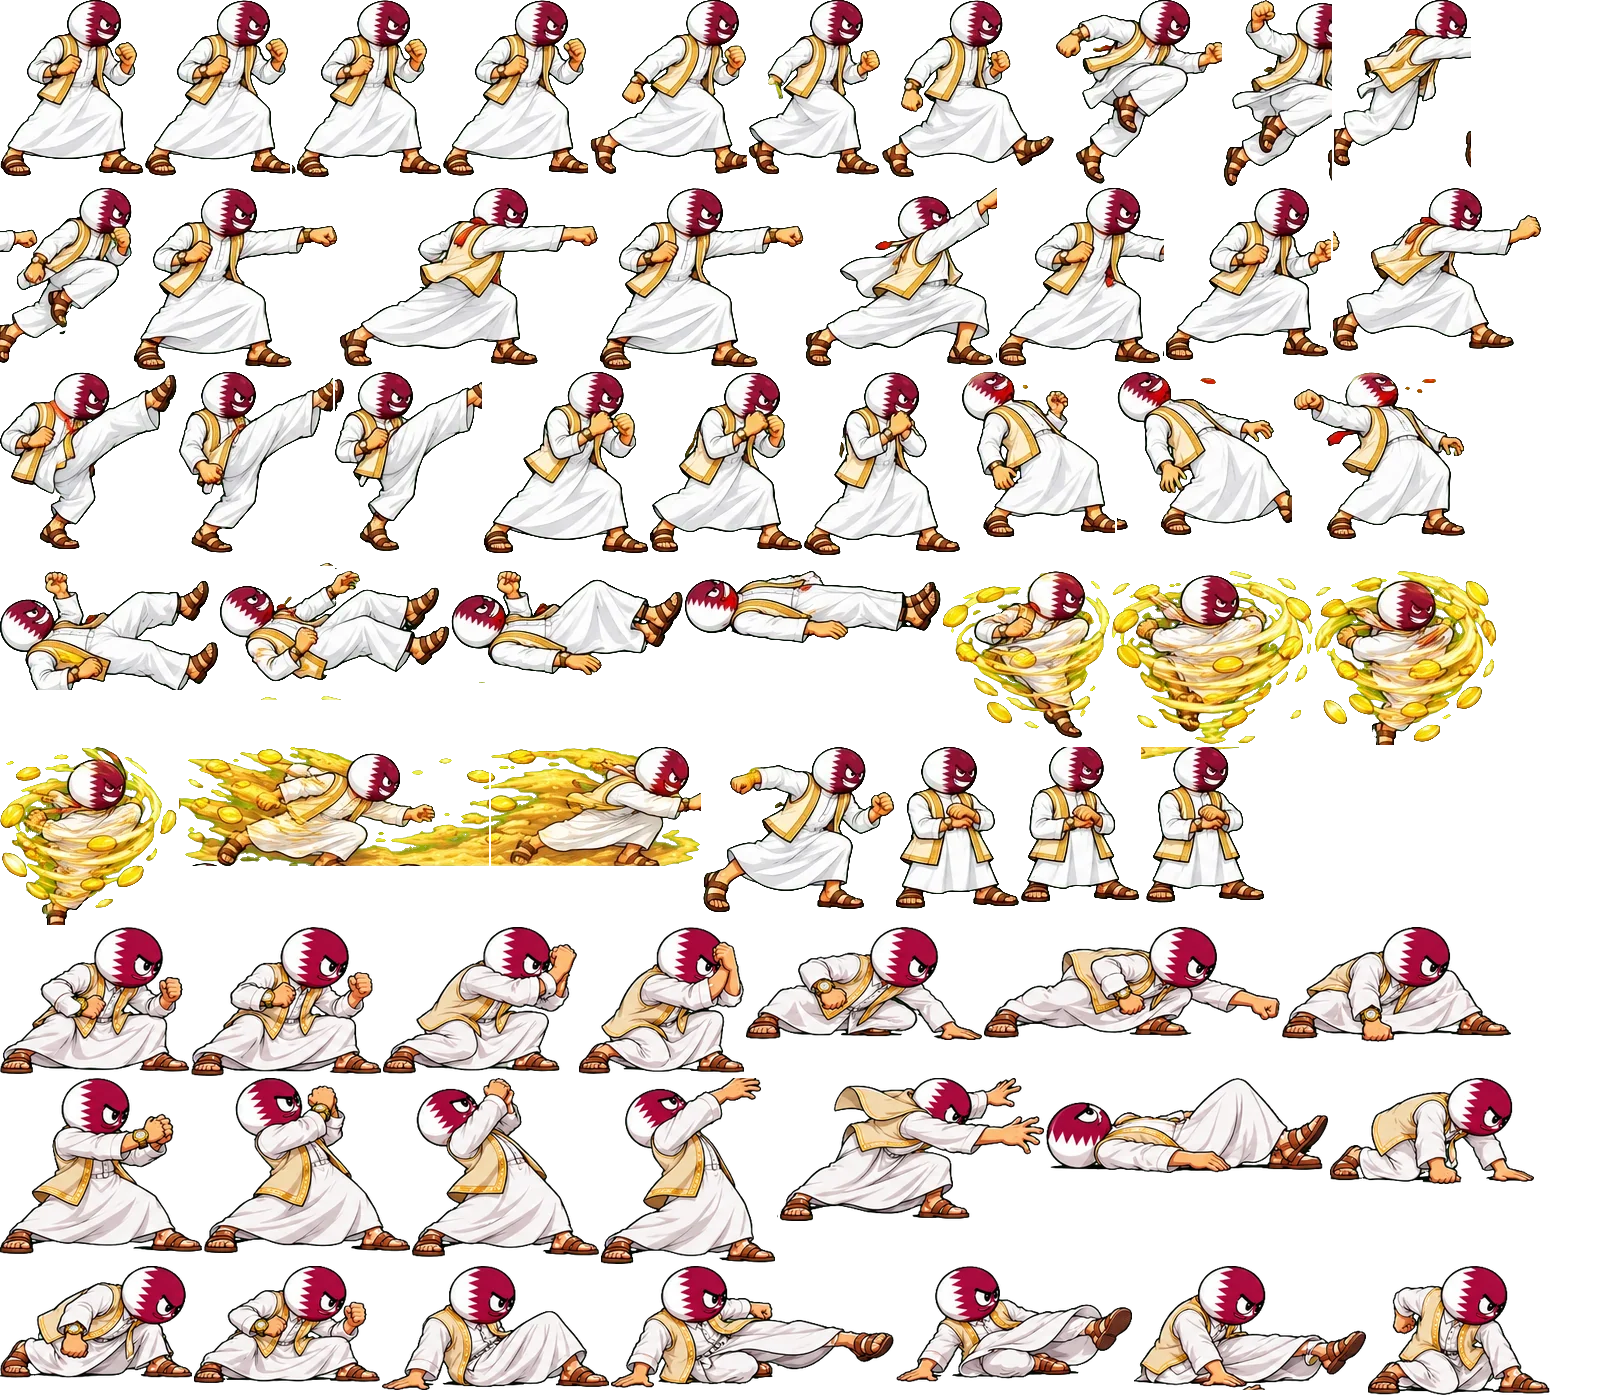
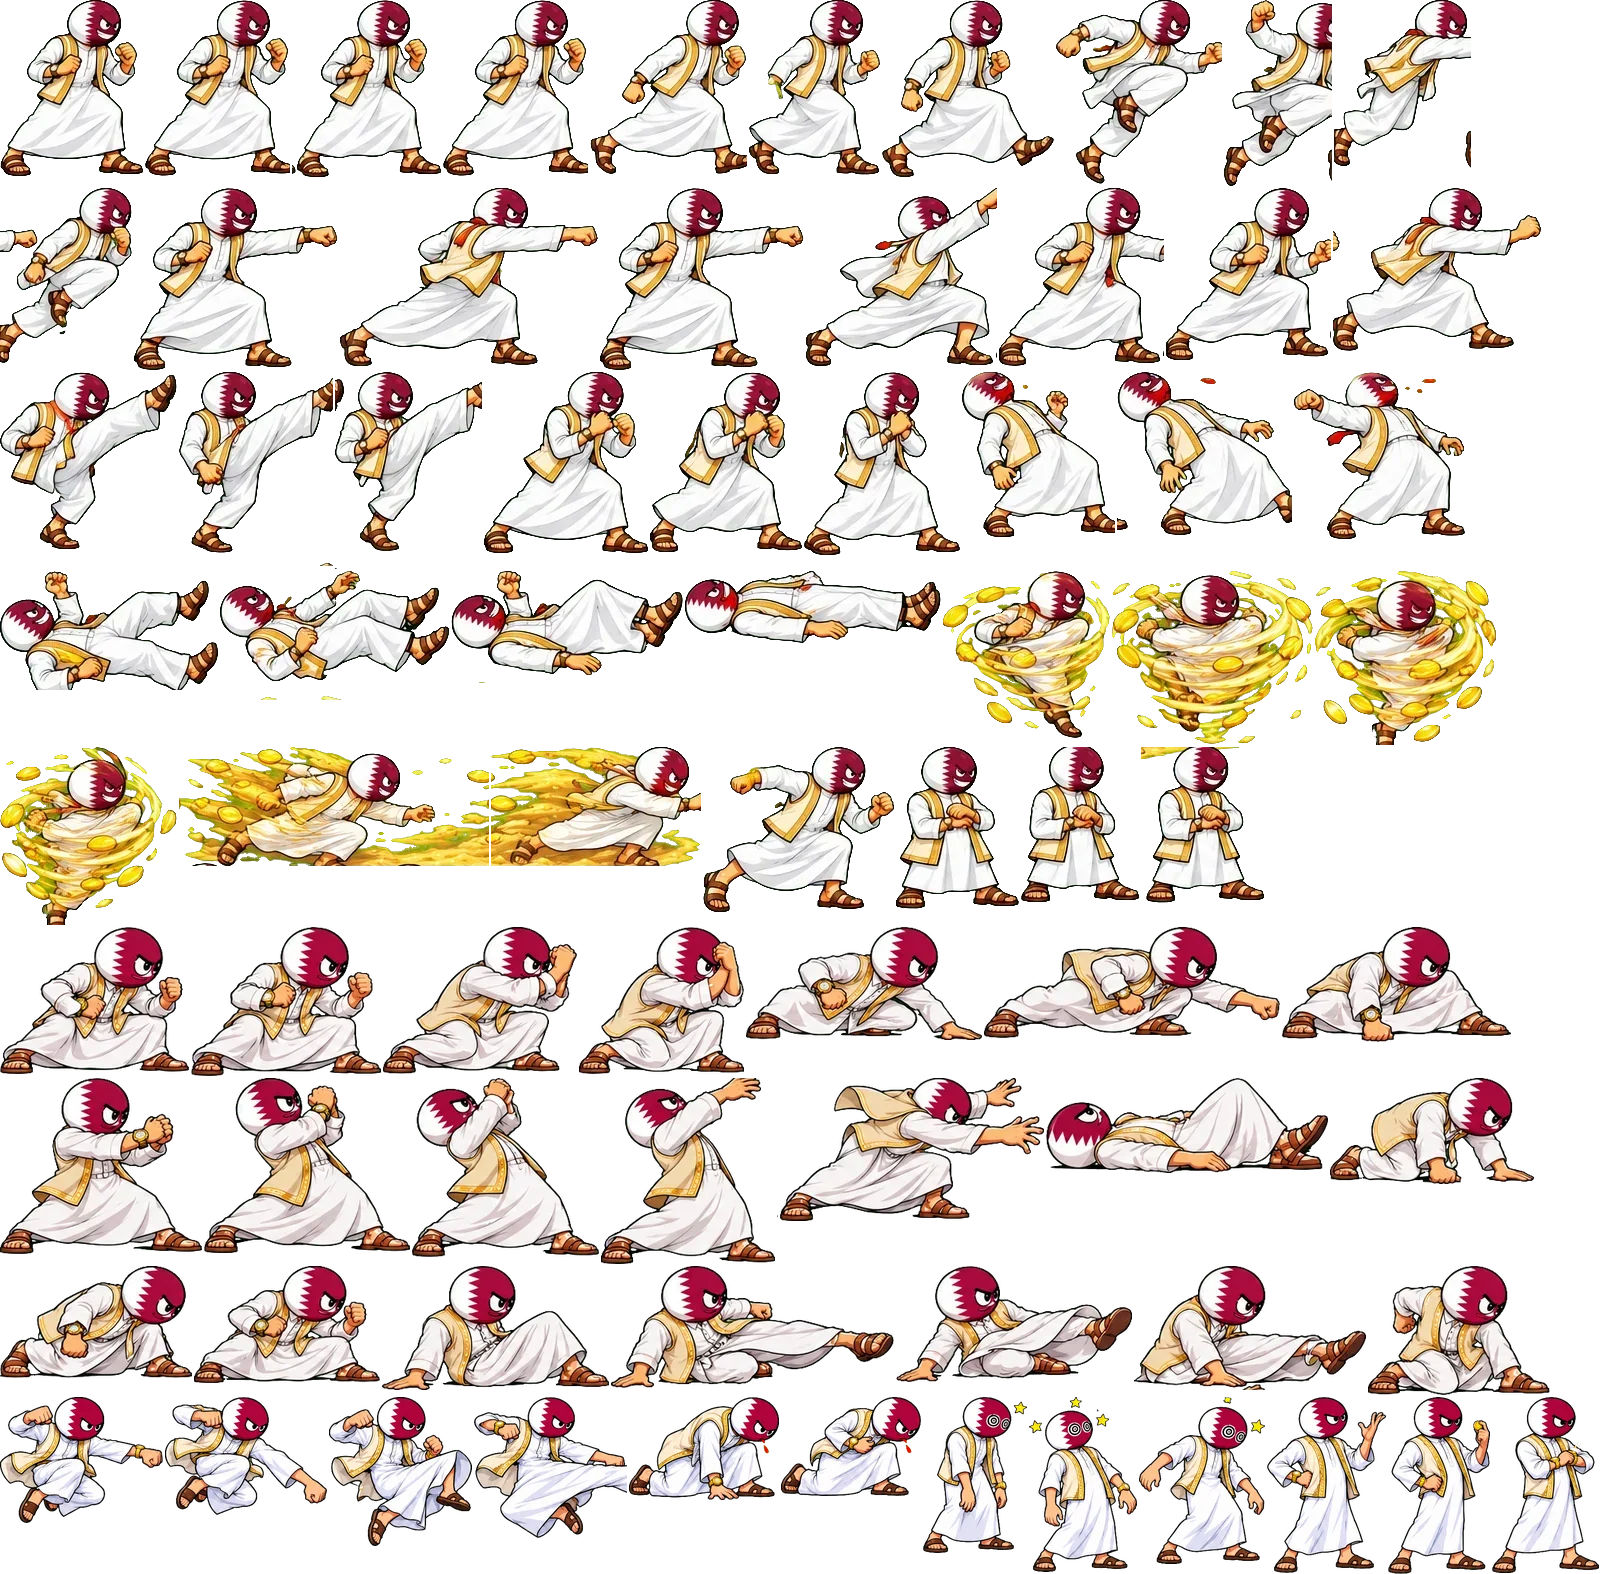
Presidents Brawl: Mister Qatar jump attacks, crouch hit, dizzy and entrance frames
Claude-Session: https://claude.ai/code/session_01HtMgEDxgy3YeKCDKp7REeJ

diff --git a/brawl/index.html b/brawl/index.html
@@ -588,7 +588,7 @@ addSprite('rus',{"idle": [[0, 0, 139, 152, 60.3], [141, 0, 134, 152, 59.1], [277
 addSprite('tur',{"idle": [[0, 0, 139, 173, 66.9], [141, 0, 140, 174, 68.7], [283, 0, 139, 176, 67.0], [424, 0, 139, 173, 66.9]], "walk": [[565, 0, 163, 176, 87.3], [730, 0, 137, 177, 68.9], [869, 0, 172, 176, 70.7]], "jump": [[1043, 0, 125, 188, 66.2], [1170, 0, 169, 180, 75.5], [1341, 0, 125, 188, 66.2], [1468, 0, 125, 188, 66.2]], "jab": [[0, 190, 201, 174, 80.2], [203, 190, 263, 173, 97.6], [468, 190, 201, 174, 80.2]], "kick": [[671, 190, 158, 187, 78.6], [831, 190, 143, 180, 34.7], [976, 190, 177, 177, 56.1], [1155, 190, 158, 187, 78.6]], "block": [[1315, 190, 154, 177, 74.0], [0, 379, 149, 183, 69.4]], "hit": [[151, 379, 152, 192, 82.2], [305, 379, 191, 192, 110.1], [498, 379, 156, 174, 74.1]], "ko": [[656, 379, 220, 129, 92.4], [878, 379, 239, 108, 100.3], [1119, 379, 230, 98, 102.4], [0, 573, 258, 58, 117.5]], "super": [[260, 573, 192, 215, 13.6], [454, 573, 215, 207, 117.9], [671, 573, 160, 220, 29.6], [833, 573, 192, 224, 91.6], [1027, 573, 211, 216, 92.8], [1240, 573, 172, 200, 78.8]], "win": [[1414, 573, 104, 210, 48.7], [0, 799, 111, 219, 57.1], [113, 799, 120, 225, 63.1]], "crouch": [[0, 1026, 200, 153, 96.0], [202, 1026, 188, 152, 93.2]], "cblock": [[392, 1026, 187, 151, 80.6], [581, 1026, 166, 153, 74.7]], "lowp": [[749, 1026, 245, 117, 156.5], [996, 1026, 243, 113, 119.6], [1241, 1026, 213, 121, 111.4]], "grab": [[0, 1181, 218, 174, 121.9], [220, 1181, 198, 175, 73.7], [420, 1181, 179, 182, 55.6], [601, 1181, 177, 188, 71.7], [780, 1181, 274, 150, 151.4]], "getup": [[1056, 1181, 279, 88, 137.8], [1337, 1181, 197, 102, 101.2], [0, 1371, 198, 105, 105.6], [200, 1371, 179, 115, 102.8]], "sweep": [[381, 1371, 226, 122, 93.9], [609, 1371, 263, 117, 71.5], [874, 1371, 223, 118, 64.8], [1099, 1371, 233, 119, 85.8], [1334, 1371, 173, 128, 80.4]], "heavy": [[0, 1501, 146, 145, 64.6], [148, 1501, 133, 141, 25.2], [283, 1501, 210, 125, 60.9], [495, 1501, 170, 106, 67.3]], "airp": [[667, 1501, 141, 104, 59.5], [810, 1501, 134, 93, 60.7]], "airk": [[946, 1501, 142, 126, 68.3], [1090, 1501, 188, 118, 69.2]], "chit": [[1280, 1501, 143, 94, 63.2], [1425, 1501, 123, 91, 50.8]], "dizzy": [[0, 1648, 86, 178, 36.9], [88, 1648, 102, 180, 48.0], [192, 1648, 129, 168, 72.7]], "intro": [[323, 1648, 104, 175, 50.5], [429, 1648, 104, 177, 49.0], [535, 1648, 150, 174, 73.0]]},'img/tur.webp',0.94);
 addSprite('ukr',{"idle": [[0, 0, 149, 218, 71.3], [151, 0, 147, 218, 69.4], [300, 0, 151, 213, 71.6], [453, 0, 143, 218, 65.8]], "walk": [[598, 0, 160, 233, 76.9], [760, 0, 164, 233, 80.2], [926, 0, 169, 232, 83.2], [1097, 0, 168, 233, 81.0]], "jump": [[1267, 0, 150, 170, 79.9], [1419, 0, 172, 215, 86.2], [0, 235, 130, 196, 54.5], [132, 235, 148, 183, 65.7]], "jab": [[282, 235, 169, 220, 82.6], [453, 235, 224, 221, 88.1], [679, 235, 165, 221, 80.0]], "heavy": [[846, 235, 192, 218, 95.6], [1040, 235, 233, 221, 92.3], [1275, 235, 249, 221, 97.6], [0, 458, 180, 214, 88.0]], "kick": [[182, 458, 125, 213, 50.0], [309, 458, 231, 202, 66.9], [542, 458, 239, 202, 76.3], [783, 458, 144, 204, 59.7]], "block": [[929, 458, 181, 234, 83.0], [1112, 458, 173, 235, 80.9]], "hit": [[1287, 458, 222, 213, 110.2], [0, 695, 201, 212, 95.1], [203, 695, 206, 214, 109.3]], "ko": [[411, 695, 226, 179, 98.6], [639, 695, 296, 164, 138.8], [937, 695, 304, 110, 145.5], [1243, 695, 269, 87, 123.3]], "super": [[0, 911, 210, 241, 50.2], [212, 911, 301, 289, 152.1], [515, 911, 262, 261, 73.5], [779, 911, 270, 256, 142.3], [1051, 911, 202, 255, 65.4], [1255, 911, 235, 199, 109.6]], "win": [[0, 1202, 178, 267, 86.3], [180, 1202, 171, 235, 84.3], [353, 1202, 142, 239, 67.9]], "crouch": [[0, 1471, 226, 200, 113.9], [228, 1471, 226, 200, 112.5]], "cblock": [[456, 1471, 219, 197, 102.0], [677, 1471, 214, 197, 100.2]], "lowp": [[893, 1471, 254, 174, 165.3], [1149, 1471, 333, 169, 191.6], [0, 1673, 295, 175, 149.0]], "grab": [[297, 1673, 254, 217, 151.4], [553, 1673, 236, 219, 86.3], [791, 1673, 230, 237, 68.5], [1023, 1673, 294, 200, 178.1]], "getup": [[0, 1912, 338, 115, 163.2], [340, 1912, 236, 178, 113.9], [578, 1912, 253, 189, 127.6]], "sweep": [[833, 1912, 234, 156, 140.3], [1069, 1912, 278, 153, 104.6], [0, 2103, 272, 160, 59.2], [274, 2103, 275, 160, 108.9]], "airp": [[0, 2265, 212, 170, 86.2], [214, 2265, 197, 153, 76.7]], "airk": [[413, 2265, 194, 217, 97.8], [609, 2265, 259, 183, 96.8]], "chit": [[870, 2265, 206, 141, 90.4], [1078, 2265, 180, 139, 73.1]], "dizzy": [[1260, 2265, 127, 215, 50.5], [1389, 2265, 139, 240, 63.5], [0, 2507, 151, 213, 68.8]], "intro": [[153, 2507, 168, 217, 81.6], [323, 2507, 222, 221, 95.7], [547, 2507, 158, 228, 36.5]]},'img/ukr.webp',0.64);
 addSprite('irn',{"idle": [[0, 0, 128, 165, 62.2], [130, 0, 130, 164, 61.8], [262, 0, 125, 164, 59.2], [389, 0, 130, 164, 61.8]], "walk": [[521, 0, 125, 163, 59.7], [648, 0, 128, 164, 60.3], [778, 0, 137, 164, 61.7]], "jump": [[917, 0, 135, 162, 69.1], [1054, 0, 110, 168, 54.9], [1166, 0, 108, 160, 51.8], [1276, 0, 130, 161, 62.0]], "jab": [[1408, 0, 176, 167, 69.1], [0, 170, 202, 166, 75.8], [204, 170, 176, 167, 69.1]], "heavy": [[382, 170, 172, 166, 67.5], [556, 170, 157, 164, 62.9], [715, 170, 150, 160, 63.7], [867, 170, 177, 158, 69.9]], "kick": [[1046, 170, 166, 168, 55.1], [1214, 170, 151, 181, 51.3], [1367, 170, 146, 176, 53.7], [0, 353, 130, 163, 66.1]], "block": [[132, 353, 134, 163, 67.1], [268, 353, 122, 162, 58.5]], "hit": [[392, 353, 139, 164, 72.3], [533, 353, 160, 153, 86.8], [695, 353, 142, 161, 80.7]], "ko": [[839, 353, 198, 109, 94.3], [1039, 353, 211, 91, 96.7], [1252, 353, 199, 77, 94.9], [0, 519, 248, 66, 115.6]], "super": [[250, 519, 122, 156, 66.6], [374, 519, 232, 128, 84.0], [608, 519, 214, 117, 83.8], [824, 519, 228, 109, 95.6], [1054, 519, 225, 109, 95.6], [1281, 519, 214, 106, 66.8], [0, 677, 146, 150, 36.7]], "win": [[148, 677, 87, 166, 41.0], [237, 677, 87, 166, 40.7], [326, 677, 87, 166, 42.6]], "crouch": [[0, 845, 168, 135, 81.2], [170, 845, 159, 137, 76.5]], "cblock": [[331, 845, 158, 135, 75.5], [491, 845, 158, 136, 76.1]], "lowp": [[651, 845, 217, 108, 140.0], [870, 845, 258, 111, 161.4], [1130, 845, 182, 113, 117.4]], "grab": [[1314, 845, 192, 164, 117.8], [0, 1011, 174, 159, 72.4], [176, 1011, 169, 160, 60.6], [347, 1011, 154, 174, 83.7], [503, 1011, 254, 140, 145.1]], "getup": [[759, 1011, 254, 91, 119.1], [1015, 1011, 194, 105, 100.7], [1211, 1011, 161, 112, 89.4], [1374, 1011, 150, 113, 72.7]], "sweep": [[0, 1187, 194, 118, 88.7], [196, 1187, 234, 113, 67.0], [432, 1187, 219, 115, 56.9], [653, 1187, 217, 123, 95.2], [872, 1187, 166, 124, 84.3]], "airp": [[0, 1313, 169, 122, 79.7], [171, 1313, 161, 102, 72.0]], "airk": [[334, 1313, 152, 145, 72.4], [488, 1313, 192, 120, 78.3]], "chit": [[682, 1313, 140, 96, 66.1], [824, 1313, 124, 93, 54.0]], "dizzy": [[950, 1313, 96, 152, 38.6], [1048, 1313, 98, 157, 46.5], [1148, 1313, 112, 148, 54.7]], "intro": [[1262, 1313, 167, 168, 86.9], [1431, 1313, 128, 126, 61.2], [0, 1483, 91, 164, 46.0]]},'img/irn.webp',0.85);
-addSprite('qat',{"idle": [[0, 0, 143, 176, 68.4], [145, 0, 145, 176, 69.9], [292, 0, 149, 177, 70.6], [443, 0, 145, 176, 69.9]], "walk": [[590, 0, 157, 174, 81.0], [749, 0, 131, 175, 63.9], [882, 0, 172, 177, 76.6]], "jump": [[1056, 0, 166, 184, 77.7], [1224, 0, 108, 186, 61.5], [1334, 0, 137, 168, 71.1], [0, 188, 132, 175, 69.5]], "jab": [[134, 188, 204, 182, 74.5], [340, 188, 258, 178, 95.7], [600, 188, 204, 182, 74.5]], "heavy": [[806, 188, 191, 178, 85.8], [999, 188, 165, 178, 76.9], [1166, 188, 165, 172, 74.4], [1333, 188, 208, 163, 88.6]], "kick": [[0, 372, 177, 177, 59.4], [179, 372, 154, 194, 36.5], [335, 372, 147, 197, 44.2], [484, 372, 164, 181, 79.7]], "block": [[650, 372, 152, 180, 72.2], [804, 372, 156, 183, 72.5]], "hit": [[962, 372, 153, 165, 84.2], [1117, 372, 175, 163, 96.2], [1294, 372, 171, 167, 97.3]], "ko": [[0, 571, 218, 119, 103.9], [220, 571, 229, 129, 110.2], [451, 571, 232, 112, 110.5], [685, 571, 256, 72, 119.8]], "super": [[943, 571, 167, 167, 101.0], [1112, 571, 201, 173, 94.5], [1315, 571, 181, 174, 79.7], [0, 747, 177, 178, 64.1], [179, 747, 310, 119, 167.8], [491, 747, 210, 119, 99.1], [703, 747, 191, 165, 81.2]], "win": [[896, 747, 123, 162, 57.4], [1021, 747, 118, 155, 55.8], [1141, 747, 123, 156, 60.5]], "crouch": [[0, 927, 189, 147, 88.8], [191, 927, 190, 149, 88.6]], "cblock": [[383, 927, 194, 147, 84.6], [579, 927, 165, 147, 79.5]], "lowp": [[746, 927, 236, 113, 149.3], [984, 927, 296, 111, 172.4], [1282, 927, 229, 115, 128.7]], "grab": [[0, 1078, 202, 176, 102.0], [204, 1078, 206, 175, 82.7], [412, 1078, 187, 179, 58.3], [601, 1078, 174, 186, 83.2], [777, 1078, 267, 143, 149.9]], "getup": [[1046, 1078, 282, 95, 138.8], [1330, 1078, 204, 106, 104.8], [0, 1266, 192, 112, 105.8], [194, 1266, 186, 117, 97.3]], "sweep": [[382, 1266, 227, 124, 100.1], [611, 1266, 283, 122, 85.1], [896, 1266, 236, 116, 71.8], [1134, 1266, 232, 124, 95.6], [1368, 1266, 182, 129, 90.8]]},'img/qat.webp',0.8);
+addSprite('qat',{"idle": [[0, 0, 143, 176, 68.4], [145, 0, 145, 176, 69.9], [292, 0, 149, 177, 70.6], [443, 0, 145, 176, 69.9]], "walk": [[590, 0, 157, 174, 81.0], [749, 0, 131, 175, 63.9], [882, 0, 172, 177, 76.6]], "jump": [[1056, 0, 166, 184, 77.7], [1224, 0, 108, 186, 61.5], [1334, 0, 137, 168, 71.1], [0, 188, 132, 175, 69.5]], "jab": [[134, 188, 204, 182, 74.5], [340, 188, 258, 178, 95.7], [600, 188, 204, 182, 74.5]], "heavy": [[806, 188, 191, 178, 85.8], [999, 188, 165, 178, 76.9], [1166, 188, 165, 172, 74.4], [1333, 188, 208, 163, 88.6]], "kick": [[0, 372, 177, 177, 59.4], [179, 372, 154, 194, 36.5], [335, 372, 147, 197, 44.2], [484, 372, 164, 181, 79.7]], "block": [[650, 372, 152, 180, 72.2], [804, 372, 156, 183, 72.5]], "hit": [[962, 372, 153, 165, 84.2], [1117, 372, 175, 163, 96.2], [1294, 372, 171, 167, 97.3]], "ko": [[0, 571, 218, 119, 103.9], [220, 571, 229, 129, 110.2], [451, 571, 232, 112, 110.5], [685, 571, 256, 72, 119.8]], "super": [[943, 571, 167, 167, 101.0], [1112, 571, 201, 173, 94.5], [1315, 571, 181, 174, 79.7], [0, 747, 177, 178, 64.1], [179, 747, 310, 119, 167.8], [491, 747, 210, 119, 99.1], [703, 747, 191, 165, 81.2]], "win": [[896, 747, 123, 162, 57.4], [1021, 747, 118, 155, 55.8], [1141, 747, 123, 156, 60.5]], "crouch": [[0, 927, 189, 147, 88.8], [191, 927, 190, 149, 88.6]], "cblock": [[383, 927, 194, 147, 84.6], [579, 927, 165, 147, 79.5]], "lowp": [[746, 927, 236, 113, 149.3], [984, 927, 296, 111, 172.4], [1282, 927, 229, 115, 128.7]], "grab": [[0, 1078, 202, 176, 102.0], [204, 1078, 206, 175, 82.7], [412, 1078, 187, 179, 58.3], [601, 1078, 174, 186, 83.2], [777, 1078, 267, 143, 149.9]], "getup": [[1046, 1078, 282, 95, 138.8], [1330, 1078, 204, 106, 104.8], [0, 1266, 192, 112, 105.8], [194, 1266, 186, 117, 97.3]], "sweep": [[382, 1266, 227, 124, 100.1], [611, 1266, 283, 122, 85.1], [896, 1266, 236, 116, 71.8], [1134, 1266, 232, 124, 95.6], [1368, 1266, 182, 129, 90.8]], "airp": [[0, 1397, 163, 126, 65.1], [165, 1397, 162, 118, 65.8]], "airk": [[329, 1397, 143, 149, 69.7], [474, 1397, 153, 141, 70.5]], "chit": [[629, 1397, 150, 103, 70.1], [781, 1397, 140, 99, 60.0]], "dizzy": [[923, 1397, 104, 156, 42.9], [1029, 1397, 108, 175, 50.6], [1139, 1397, 126, 167, 67.2]], "intro": [[1267, 1397, 119, 176, 54.6], [1388, 1397, 102, 177, 45.8], [1492, 1397, 107, 176, 51.5]]},'img/qat.webp',0.8);
 addSprite('eu',{"idle": [[0, 0, 104, 176, 50.3], [106, 0, 104, 175, 50.6], [212, 0, 107, 175, 51.8], [321, 0, 110, 176, 52.9]], "walk": [[433, 0, 105, 175, 49.6], [540, 0, 122, 175, 60.0], [664, 0, 116, 174, 56.5], [782, 0, 124, 175, 61.2], [908, 0, 121, 177, 59.6]], "jump": [[1031, 0, 98, 163, 52.4], [1131, 0, 105, 149, 51.9], [1238, 0, 97, 148, 47.7], [1337, 0, 103, 148, 54.0]], "jab": [[1442, 0, 112, 166, 50.3], [0, 179, 143, 162, 49.4], [145, 179, 112, 166, 50.3]], "heavy": [[259, 179, 127, 164, 43.2], [388, 179, 129, 163, 44.2], [519, 179, 135, 164, 46.4], [656, 179, 127, 166, 52.2]], "kick": [[785, 179, 123, 160, 34.4], [910, 179, 135, 158, 43.0], [1047, 179, 131, 154, 49.0], [1180, 179, 157, 138, 58.8]], "block": [[1339, 179, 93, 160, 42.4], [1434, 179, 92, 161, 44.1]], "hit": [[0, 347, 109, 148, 58.4], [111, 347, 110, 145, 63.5], [223, 347, 112, 144, 62.8]], "ko": [[337, 347, 147, 134, 60.4], [486, 347, 159, 100, 74.7], [647, 347, 160, 58, 72.5], [809, 347, 166, 51, 72.7]], "super": [[977, 347, 98, 145, 45.3], [1077, 347, 134, 146, 54.0], [1213, 347, 176, 140, 55.9], [0, 497, 243, 137, 51.5], [245, 497, 262, 141, 52.3]], "proj": [[509, 497, 136, 89, 50.7]], "win": [[647, 497, 66, 127, 37.6], [715, 497, 68, 128, 30.4], [785, 497, 60, 125, 24.8]], "crouch": [[0, 640, 160, 152, 74.4], [162, 640, 165, 153, 73.2]], "cblock": [[329, 640, 165, 151, 71.9], [496, 640, 156, 152, 58.5]], "lowp": [[654, 640, 232, 111, 155.4], [888, 640, 293, 113, 186.3], [1183, 640, 212, 119, 127.8]], "grab": [[0, 795, 205, 176, 101.3], [207, 795, 193, 177, 50.3], [402, 795, 182, 176, 46.3], [586, 795, 186, 186, 67.4], [774, 795, 256, 152, 148.9]], "getup": [[1032, 795, 264, 89, 116.2], [1298, 795, 191, 106, 96.6], [0, 983, 173, 112, 97.7], [175, 983, 172, 121, 98.4]], "sweep": [[349, 983, 210, 119, 84.5], [561, 983, 266, 117, 74.4], [829, 983, 226, 117, 55.1], [1057, 983, 221, 119, 72.4], [1280, 983, 166, 126, 71.9]]},'img/eu.webp',0.77);
 addSprite('chn',{"idle": [[0, 0, 161, 208, 77.4], [163, 0, 163, 208, 77.6], [328, 0, 171, 208, 84.3], [501, 0, 166, 208, 80.1]], "walk": [[669, 0, 187, 215, 91.4], [858, 0, 182, 215, 90.2], [1042, 0, 182, 214, 94.8], [1226, 0, 184, 216, 91.2]], "jump": [[1412, 0, 161, 164, 90.4], [0, 218, 162, 193, 85.9], [164, 218, 145, 180, 79.2], [311, 218, 203, 184, 114.7]], "jab": [[516, 218, 222, 197, 110.3], [740, 218, 269, 196, 116.3], [1011, 218, 220, 197, 107.6]], "heavy": [[1233, 218, 194, 194, 97.7], [0, 417, 229, 195, 108.7], [231, 417, 254, 195, 128.8], [487, 417, 203, 197, 99.5]], "kick": [[692, 417, 233, 188, 39.8], [927, 417, 154, 192, 40.1], [1083, 417, 280, 136, 102.1], [1365, 417, 202, 159, 98.7]], "block": [[0, 616, 201, 236, 94.3], [203, 616, 202, 240, 94.4]], "hit": [[407, 616, 182, 232, 84.8], [591, 616, 197, 238, 93.2]], "ko": [[790, 616, 226, 221, 92.7], [1018, 616, 266, 186, 120.8], [1286, 616, 258, 124, 107.8], [0, 858, 285, 83, 134.6]], "super": [[287, 858, 182, 265, 87.9], [471, 858, 186, 271, 80.3], [659, 858, 200, 261, 68.2], [861, 858, 333, 253, 100.0], [1196, 858, 259, 203, 100.5]], "win": [[0, 1131, 160, 253, 75.1], [162, 1131, 139, 227, 52.3], [303, 1131, 131, 255, 49.2]], "crouch": [[0, 1388, 275, 185, 136.2], [277, 1388, 256, 185, 130.3]], "cblock": [[535, 1388, 244, 183, 104.9], [781, 1388, 213, 184, 95.1]], "lowp": [[996, 1388, 316, 139, 201.8], [0, 1575, 361, 141, 229.8], [363, 1575, 279, 142, 144.9]], "grab": [[644, 1575, 293, 208, 159.2], [939, 1575, 267, 205, 97.2], [1208, 1575, 261, 210, 114.9], [0, 1787, 223, 225, 119.3], [225, 1787, 294, 192, 165.6]], "getup": [[521, 1787, 355, 125, 174.2], [878, 1787, 250, 141, 126.0], [1130, 1787, 254, 138, 135.9], [0, 2014, 290, 137, 155.5]], "sweep": [[292, 2014, 351, 153, 127.6], [645, 2014, 357, 151, 142.6], [1004, 2014, 294, 158, 116.7], [0, 2174, 320, 146, 117.6], [322, 2174, 244, 165, 119.8]]},'img/chn.webp',0.72);
 addSprite('nk',{"idle": [[0, 0, 125, 152, 59.5], [127, 0, 127, 152, 60.5], [256, 0, 125, 152, 59.3], [383, 0, 126, 151, 60.0]], "walk": [[511, 0, 128, 155, 62.3], [641, 0, 134, 156, 68.4], [777, 0, 131, 156, 65.8], [910, 0, 134, 155, 66.9], [1046, 0, 144, 155, 72.2]], "jump": [[1192, 0, 144, 147, 68.4], [1338, 0, 119, 136, 62.0], [1459, 0, 113, 137, 54.2], [0, 158, 165, 156, 73.2]], "jab": [[167, 158, 159, 163, 56.2], [328, 158, 172, 164, 80.7], [502, 158, 159, 163, 56.2]], "heavy": [[663, 158, 134, 178, 64.0], [799, 158, 130, 152, 63.7], [931, 158, 145, 183, 63.5], [1078, 158, 168, 158, 72.5]], "kick": [[1248, 158, 155, 160, 49.1], [1405, 158, 159, 160, 56.7], [0, 343, 155, 160, 49.1], [157, 343, 159, 160, 56.7]], "block": [[318, 343, 115, 161, 51.4], [435, 343, 115, 161, 51.4]], "hit": [[552, 343, 151, 155, 82.6], [705, 343, 152, 152, 91.2]], "ko": [[859, 343, 164, 127, 70.9], [1025, 343, 177, 123, 73.2], [1204, 343, 189, 81, 88.7], [1395, 343, 149, 68, 70.7]], "super": [[0, 506, 179, 159, 59.5], [181, 506, 166, 161, 59.9], [349, 506, 186, 164, 68.6], [537, 506, 148, 154, 71.2], [687, 506, 140, 146, 64.0], [829, 506, 284, 152, 78.9]], "proj": [[1115, 506, 270, 59, 90.8]], "win": [[1387, 506, 112, 144, 52.7], [0, 672, 108, 137, 48.7], [110, 672, 92, 135, 43.1]], "crouch": [[0, 811, 182, 132, 88.9], [184, 811, 180, 132, 88.1]], "cblock": [[366, 811, 178, 131, 85.3], [546, 811, 170, 131, 81.5]], "lowp": [[718, 811, 214, 113, 144.1], [934, 811, 262, 107, 163.4], [1198, 811, 178, 113, 123.9]], "grab": [[1378, 811, 193, 152, 96.1], [0, 965, 159, 152, 59.2], [161, 965, 150, 152, 50.9], [313, 965, 149, 157, 56.6], [464, 965, 237, 145, 119.7]], "getup": [[703, 965, 249, 111, 115.0], [954, 965, 181, 108, 94.6], [1137, 965, 176, 104, 95.9], [1315, 965, 171, 123, 83.4]], "sweep": [[0, 1124, 210, 113, 106.1], [212, 1124, 231, 109, 89.2], [445, 1124, 216, 110, 83.2], [663, 1124, 194, 111, 98.6], [859, 1124, 157, 120, 94.6]]},'img/nk.webp',.82);
